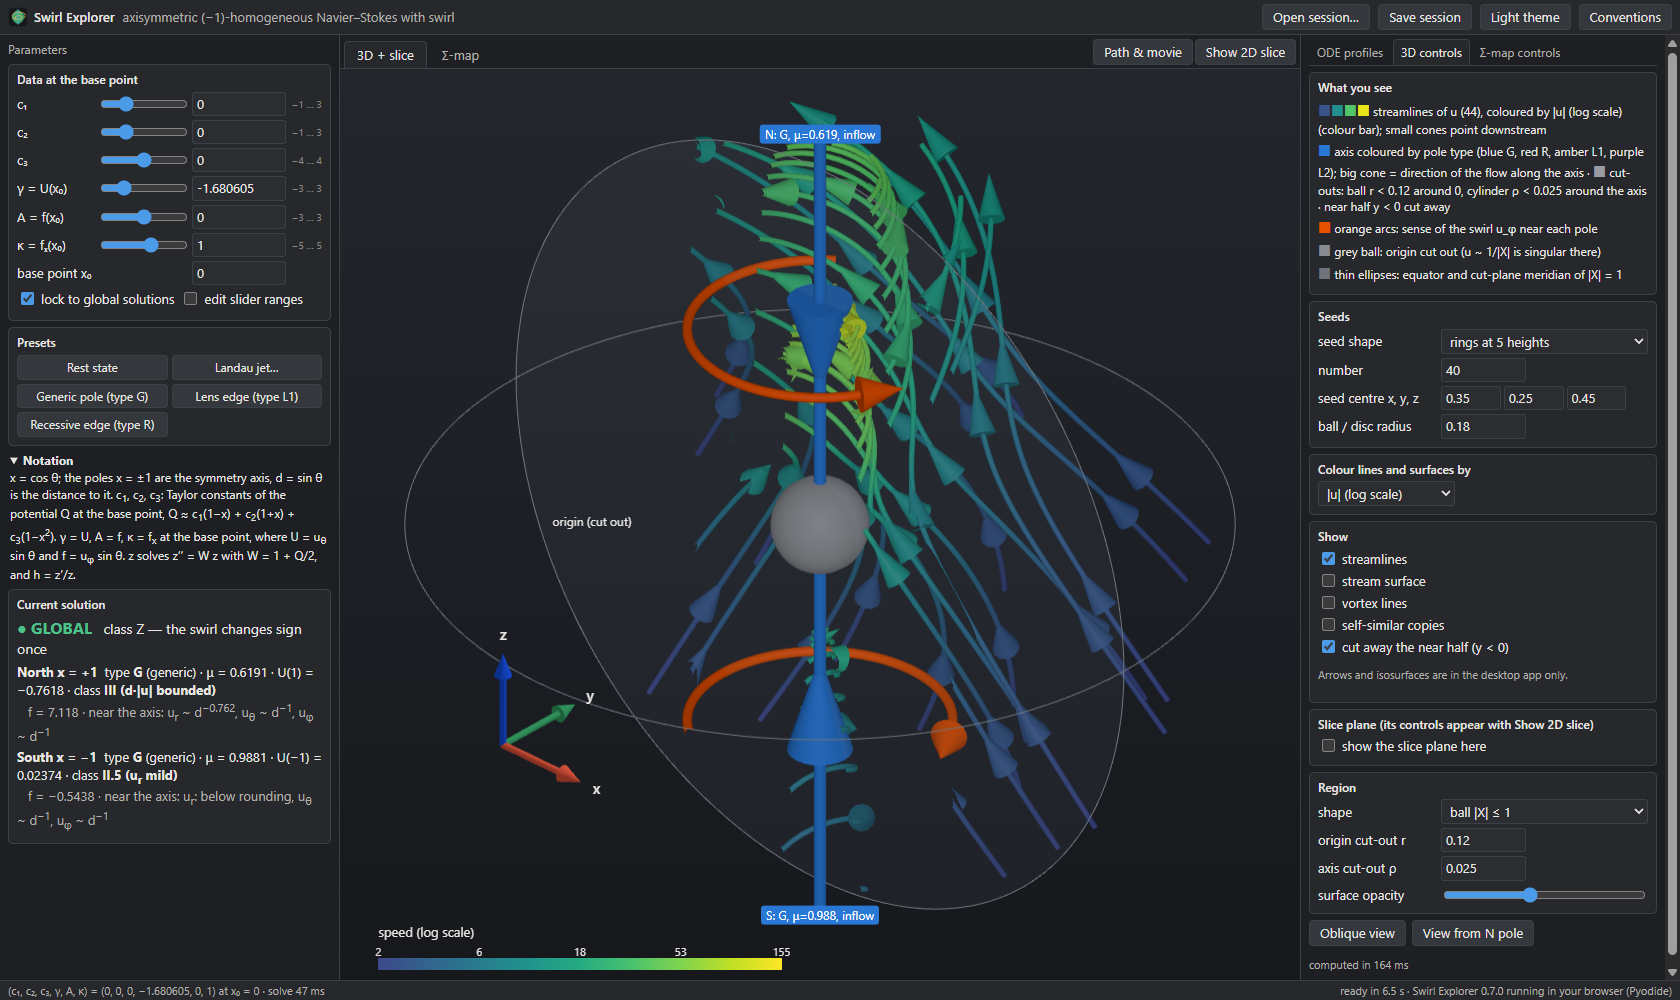
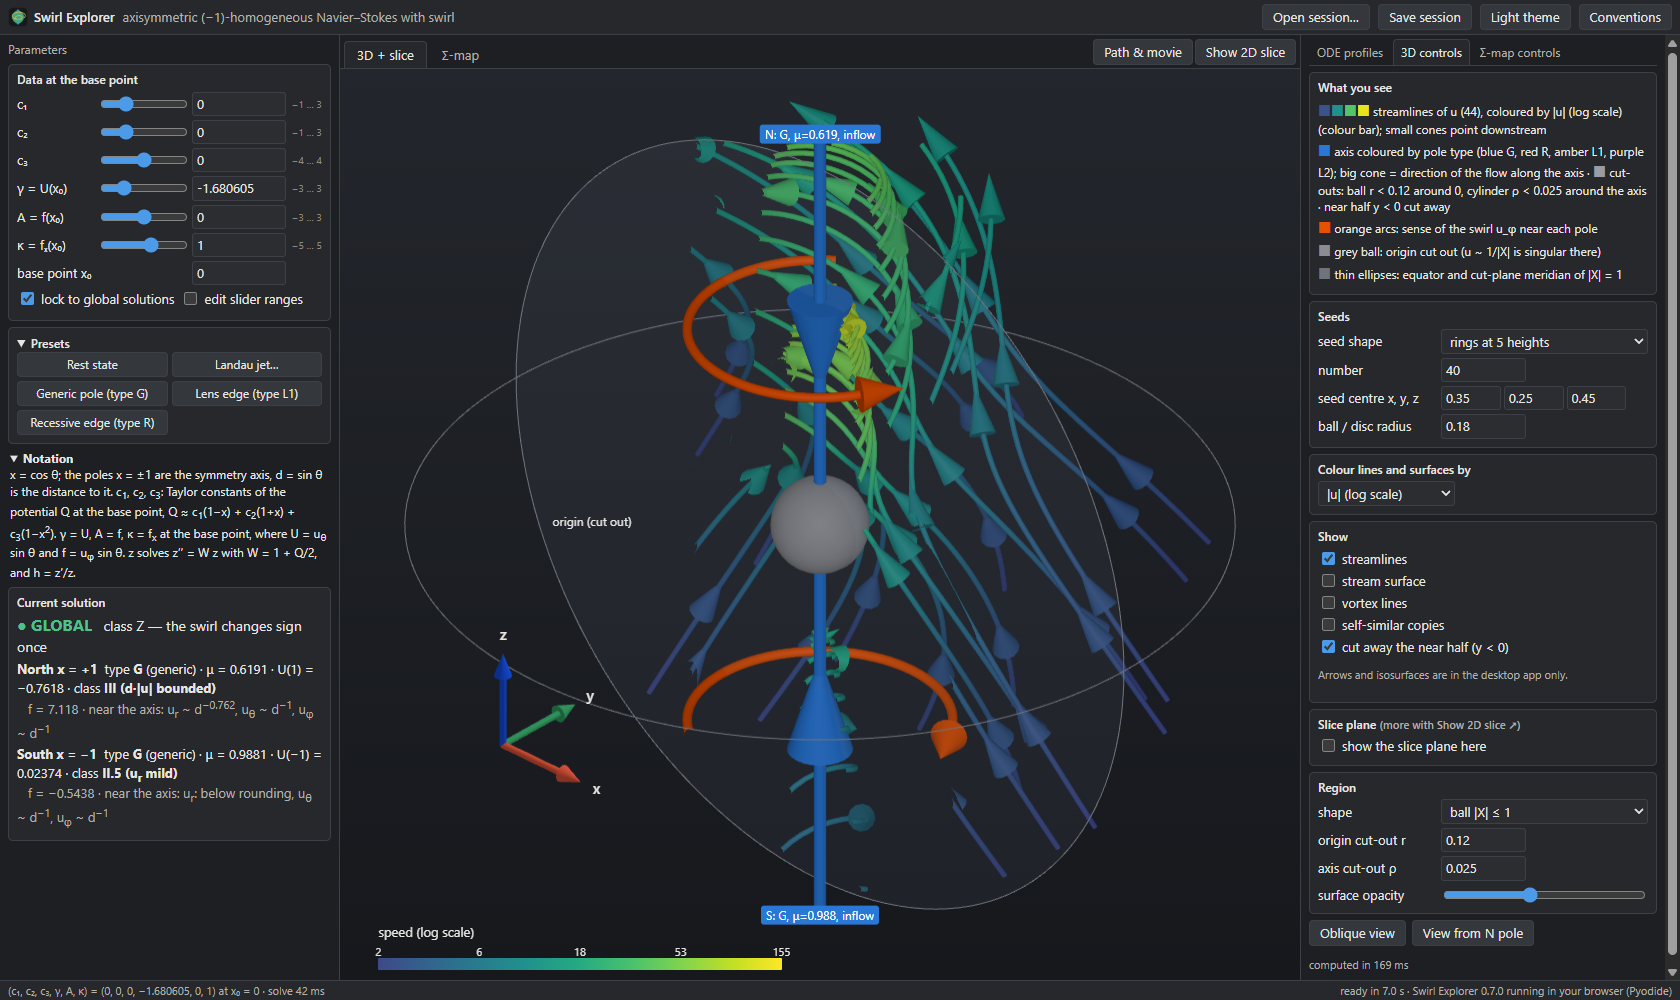
Web version, visual review round 4: foldable presets, slice plane hides labels behind it, uncertain-type note

diff --git a/site/index.html b/site/index.html
@@ -38,10 +38,10 @@
       </div>
       <div id="lock-note" class="note" hidden></div>
     </section>
-    <section class="group">
-      <h3>Presets</h3>
+    <details id="presets-box" class="group" open>
+      <summary><h3>Presets</h3></summary>
       <div id="presets" class="preset-grid"></div>
-    </section>
+    </details>
     <details id="notation" class="notation" open><summary><b>Notation</b></summary> x = cos θ; the poles x = ±1 are the symmetry axis, d = sin θ is the distance
       to it. c<sub>1</sub>, c<sub>2</sub>, c<sub>3</sub>: Taylor constants of the potential Q at the base point,
       Q ≈ c<sub>1</sub>(1−x) + c<sub>2</sub>(1+x) + c<sub>3</sub>(1−x<sup>2</sup>). γ = U, A = f, κ = f<sub>x</sub>
@@ -144,7 +144,7 @@
         <p class="muted small">Arrows and isosurfaces are in the desktop app only.</p>
       </section>
       <section class="group">
-        <h3>Slice plane (its controls appear with Show 2D slice)</h3>
+        <h3>Slice plane <span class="muted small">(more with Show 2D slice ↗)</span></h3>
         <label class="chk" title="the plane coloured by u·n with its in-plane streamlines"><input id="s-show_slice" type="checkbox"> show the slice plane here</label>
       </section>
       <section class="group">
@@ -242,11 +242,9 @@
           <button id="pa-first" title="first frame">⏮</button>
           <button id="pa-play" title="preview: every view follows the path (frames are dropped if solving lags)">▶ Play</button>
           <button id="pa-last" title="last frame">⏭</button>
-          <span class="sep">·</span>
           <label title="frames along the path"><input id="pa-frames" type="number" min="2" max="5000" value="120"> frames</label>
           <label title="frames per second"><input id="pa-fps" type="number" min="1" max="60" value="24"> fps</label>
           <span id="pa-len" class="muted"></span>
-          <span class="sep">·</span>
           <label class="chk"><input id="pa-loop" type="checkbox"> loop</label>
           <span class="spacer"></span>
           <label title="what a recorded video shows where the solution is not global">not-global frames in the video:
@@ -277,7 +275,9 @@
   <h2>Conventions</h2>
   <p>Data at the base point x<sub>b</sub> (default the equator): c = Taylor constants of Q, γ = U(x<sub>b</sub>),
     A = f(x<sub>b</sub>), κ = f<sub>x</sub>(x<sub>b</sub>). The task brief's Γ is γ here, and its γ is κ.</p>
-  <p>Pole types G / R / L1 / L2 and labels follow the monograph (Table 4.1) and docs/conventions.md.</p>
+  <p>Pole types G / R / L1 / L2 and labels follow the monograph (Table 4.1) and docs/conventions.md.
+    A red <i>(uncertain)</i> after a pole type means the type was classified with confidence below 0.9: the
+    solution is close to a boundary between types (hover the pole line for the details).</p>
   <h3>About this page</h3>
   <p>This is the browser version of the Swirl Explorer desktop app. The same Python code (solver, pole
     diagnostics, plots) runs in your browser through Pyodide; nothing is sent to a server. It is about

diff --git a/site/view3d.js b/site/view3d.js
@@ -360,18 +360,19 @@ export class View3D {
     clearTimeout(this._occT);
     this._occT = setTimeout(() => {
       const rc = new THREE.Raycaster(), dir = new THREE.Vector3(), p = new THREE.Vector3();
-      const meshes = [];
+      const meshes = [], planes = [];
       this.groups.scene.traverse((o) => { if (o.isMesh && !o.isInstancedMesh && !o.userData.noOcclude && !(o.material && o.material.transparent)) meshes.push(o); });
+      this.groups.slice.traverse((o) => { if (o.isMesh) planes.push(o); });
       const camDir = new THREE.Vector3(); this.camera.getWorldDirection(camDir);
       let changed = false;
       for (const L of this.labels) {
-        if (L.screen || L.plain) continue;
+        if (L.screen) continue;
         p.set(...L.pos);
         // orthographic camera: cast along the view direction from in front of the label
         const origin = p.clone().addScaledVector(camDir, -20);
         rc.set(origin, camDir);
         rc.far = 20 - 0.12;                      // a little tolerance, as VTK's z-buffer test
-        const hit = rc.intersectObjects(meshes, false).length > 0;
+        const hit = (!L.plain && rc.intersectObjects(meshes, false).length > 0) || rc.intersectObjects(planes, false).length > 0;
         if (hit !== !!L.hidden) { L.hidden = hit; changed = true; }
       }
       if (changed) this.placeLabels();

diff --git a/site/path.js b/site/path.js
@@ -131,7 +131,7 @@ export class PathDock {
     const tb = this.table.querySelector("tbody");
     tb.innerHTML = ks.map((k, r) => `<tr data-r="${r}" class="${r === this.sel ? "sel" : ""}"><td class="const">${r + 1}</td><td contenteditable data-c="t">${+k.t.toPrecision(10)}</td>` +
       NAMES.map((n) => `<td contenteditable data-c="${n}" class="${vary.includes(n) ? "" : "const"}" ${vary.includes(n) ? 'style="font-weight:600"' : ""}>${+Number(k.params[n]).toPrecision(10)}</td>`).join("") +
-      `<td class="const">${EXTRA.filter((e) => k.extras && e in k.extras).join(", ") || "—"}</td></tr>`).join("");
+      `<td class="const" title="${EXTRA.some((e) => k.extras && e in k.extras) ? "the view this keyframe restores" : "no view stored: tick camera / slice plane / seeds above before adding keyframes"}">${EXTRA.filter((e) => k.extras && e in k.extras).join(", ") || "—"}</td></tr>`).join("");
     tb.querySelectorAll("tr").forEach((tr) => tr.addEventListener("click", () => {
       this.sel = +tr.dataset.r; this.refreshSel();
       if (ks.length >= 2) { const [a, b] = this.duration(); this.goto(Math.round(((ks[this.sel].t - a) / ((b - a) || 1)) * (this.n() - 1))); }

diff --git a/site/style.css b/site/style.css
@@ -37,6 +37,9 @@ input[type=checkbox] { accent-color: var(--accent); }
 label.chk { display: inline-flex; gap: 4px; align-items: center; cursor: pointer; }
 .group { border: 1px solid var(--border); border-radius: 5px; padding: 6px 8px 8px; margin: 6px 0; background: var(--panel); }
 .group h3 { margin: 0 0 4px; font-size: 12px; font-weight: 600; color: var(--text); }
+details.group > summary { cursor: pointer; list-style-position: inside; }
+details.group > summary h3 { display: inline; }
+.form .pair { align-items: center; }
 .dock-title { font-size: 12px; font-weight: 400; margin: 2px 0 4px; color: var(--muted); }
 .note { color: var(--muted); font-size: 11px; margin-top: 3px; }
 

diff --git a/site/app.js b/site/app.js
@@ -452,6 +452,7 @@ function showSlice(on) {
 function showPath(on) {
   $("bottom").hidden = !on;
   $("notation").open = !on;
+  $("presets-box").open = !on;                     // the status stays visible above the path panel
   $("btn-path").classList.toggle("on", on);
   view.resize();
 }
